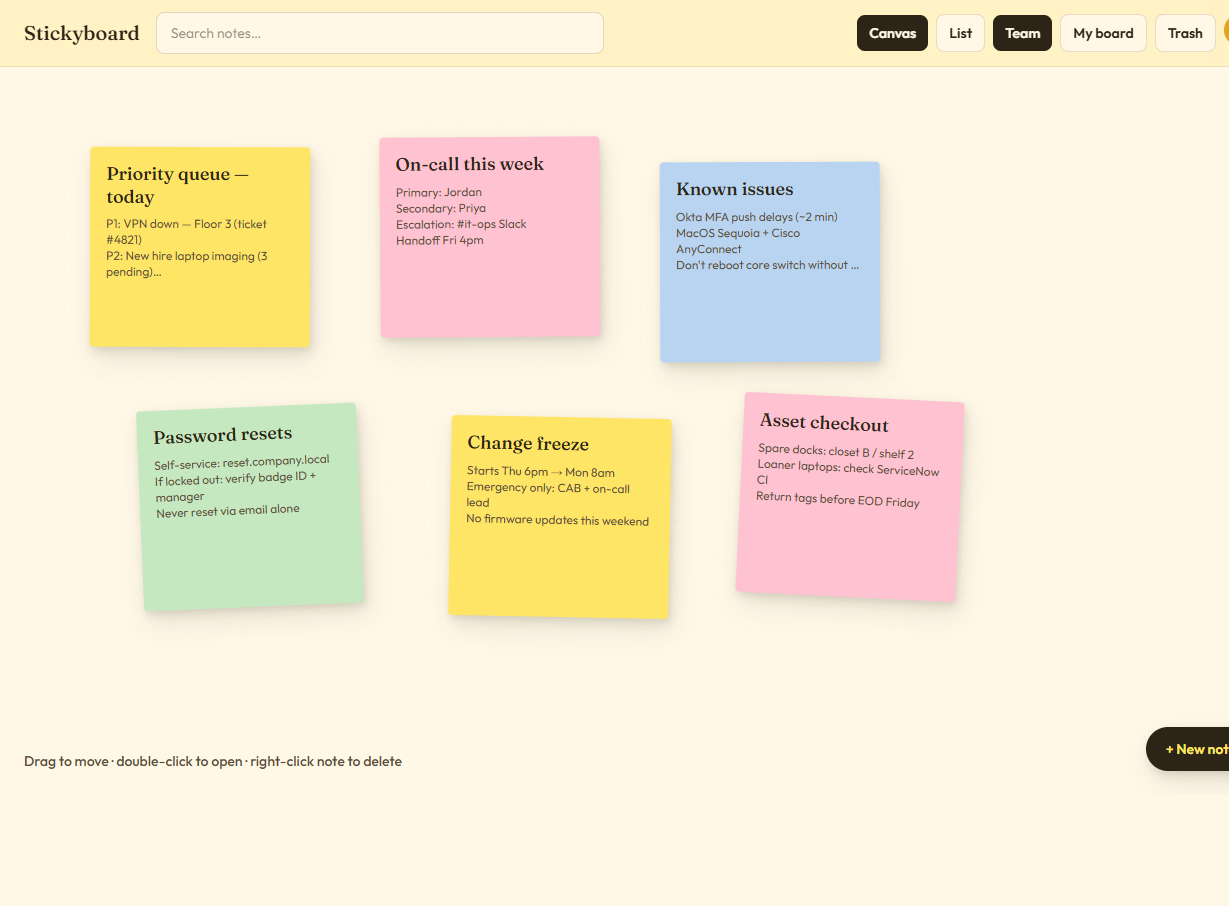
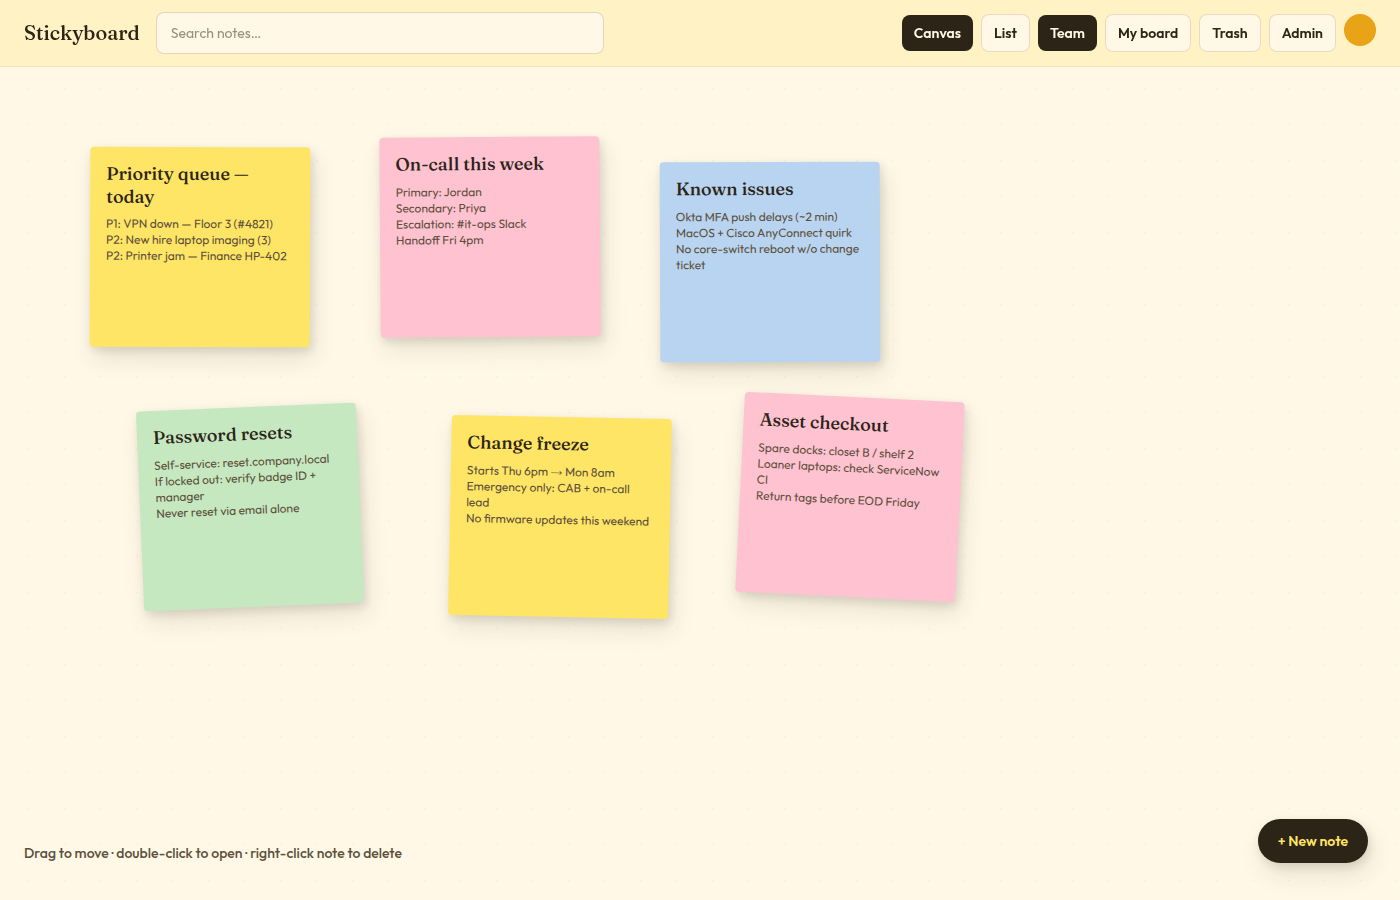
Fix README preview so chrome and New note aren’t clipped.
Recapture the board at a full viewport and give the canvas footer controls a bit more inset.

diff --git a/src/components/board-canvas.tsx b/src/components/board-canvas.tsx
@@ -242,14 +242,14 @@ export function BoardCanvas({
         />
       ))}
 
-      <p className="pointer-events-none absolute bottom-6 left-6 text-sm font-medium text-ink-muted">
+      <p className="pointer-events-none absolute bottom-8 left-6 text-sm font-medium text-ink-muted">
         Drag to move · double-click to open · right-click note to delete
       </p>
 
       <button
         type="button"
         onClick={() => createNoteAt(160, 160)}
-        className="absolute bottom-6 right-6 rounded-full bg-ink px-5 py-3 text-sm font-semibold text-sticky-yellow sticky-shadow"
+        className="absolute bottom-8 right-8 rounded-full bg-ink px-5 py-3 text-sm font-semibold text-sticky-yellow sticky-shadow"
       >
         + New note
       </button>
